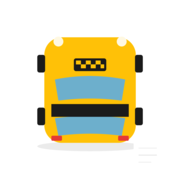
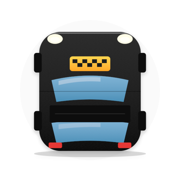
feat: 営業サマリーに時間単価復活+時間別グラフ縦リスト化+天候絵文字+黒タクシーアイコン
- index.html: 営業サマリー表に「時間単価」列追加 (各日 売上/実車時間)、合計行も
- detail.html: 時間別売上グラフを縦リスト式に変更 (各時間=1行、売上barと休憩barを縦並び、tripある時間帯のみ表示) スマホで見やすく
- detail.html: 天候カードを絵文字+温度のシンプル表記に (☀🌤⛅☁🌫🌦🌧🌨⛈)
- weather.js: weatherEmoji() 追加
- アイコン: qlmanage+sipsで再生成、黒車体+黄色TAXIランプ+水色窓で洗練デザイン
- sw.js: cache v24

diff --git a/detail.html b/detail.html
@@ -25,17 +25,18 @@
 .period-table tr.total { background: #f5f5f5; font-weight: 600; }
 .period-table tr.total td { border-top: 2px solid #ddd; }
 
-.hour-chart { margin-top: 8px; overflow-x: auto; }
-.hour-row { display: grid; grid-template-columns: repeat(24, minmax(28px, 1fr)); gap: 2px; }
-.hour-bar-col { display: grid; grid-template-rows: 60px 12px 11px auto; justify-items: center; align-items: end; }
-.hour-bar-col .bar-wrap { height: 60px; display: flex; align-items: end; gap: 1px; width: 100%; }
-.hour-bar-col .bar { flex: 1; border-radius: 2px 2px 0 0; min-height: 1px; }
-.hour-bar-col .bar.sales { background: var(--green, #4CAF50); }
-.hour-bar-col .bar.rest { background: #555; }
-.hour-bar-col .bar.zero { background: #f0f0f0; }
-.hour-bar-col .yen { font-size: 9px; color: #1b5e20; font-weight: 600; line-height: 1; align-self: center; }
-.hour-bar-col .min { font-size: 8px; color: var(--muted); line-height: 1; align-self: center; }
-.hour-bar-col .h { font-size: 9px; color: var(--muted); margin-top: 2px; border-top: 1px solid #ddd; padding-top: 2px; width: 100%; text-align: center; align-self: end; }
+.hour-list { margin-top: 8px; }
+.hour-row { display: grid; grid-template-columns: 38px 1fr 70px; gap: 6px; align-items: center; padding: 4px 0; border-bottom: 1px solid #f0f0f0; font-size: 12px; }
+.hour-row .h { font-weight: 600; color: #444; text-align: right; padding-right: 4px; font-size: 12px; }
+.hour-row .h.zero { color: #ccc; font-weight: 400; }
+.hour-row .barcell { display: grid; grid-template-rows: 1fr 1fr; gap: 2px; }
+.hour-row .bar-bg { height: 11px; background: #f5f5f5; border-radius: 3px; overflow: hidden; }
+.hour-row .bar { height: 100%; border-radius: 3px; min-width: 0; transition: width 0.2s; }
+.hour-row .bar.sales { background: var(--green, #4CAF50); }
+.hour-row .bar.rest { background: #757575; }
+.hour-row .vals { font-size: 10px; line-height: 1.3; text-align: right; color: var(--muted); }
+.hour-row .vals .y { color: #1b5e20; font-weight: 600; font-size: 11px; }
+.hour-row .vals .r { color: #555; }
 
 .trip-table { width: 100%; border-collapse: collapse; font-size: 11px; margin-top: 4px; }
 .trip-table th, .trip-table td { padding: 4px 3px; border-bottom: 1px solid #eee; }
@@ -77,6 +78,7 @@ import { renderBottomNav, formatYen, formatDate } from './js/app.js';
 import { getDrive, listFiles, saveDriveSafe } from './js/storage.js';
 import { calcDailySales } from './js/payroll.js';
 import { calcTimeBreakdown, hourlyActivity, calcPeriodBreakdown, PERIOD_LABELS, formatMin, timeToMinutes } from './js/chart-helpers.js';
+import { weatherEmoji } from './js/weather.js';
 
 const SHIFT_START_HOUR = 7;
 function shiftHour(h) { return h < SHIFT_START_HOUR ? h + 24 : h; }
@@ -153,16 +155,21 @@ async function load() {
   // 時間別: 7時スタート、各バーに金額・実車分
   renderHourChart(drive);
 
-  // 天候
+  // 天候 (絵文字+温度のシンプル表記)
   if (drive.weather) {
     const w = drive.weather;
+    const cell = (lbl, p) => `<div style="text-align:center;flex:1;">
+      <div style="font-size:10px;color:var(--muted);">${lbl}</div>
+      <div style="font-size:24px;line-height:1.2;">${p ? weatherEmoji(p.code) : '—'}</div>
+      <div style="font-size:11px;color:#444;">${p?.tempAvg != null ? p.tempAvg + '℃' : ''}${p?.precipMm > 0 ? ` / ${p.precipMm}mm` : ''}</div>
+    </div>`;
     document.getElementById('weatherCard').innerHTML = `
       <div class="muted">天候</div>
-      <div style="display:flex;gap:8px;font-size:12px;margin-top:4px;flex-wrap:wrap;">
-        <div>朝 ${w.morning?.label || '-'} ${w.morning?.tempAvg ?? ''}℃</div>
-        <div>昼 ${w.noon?.label || '-'} ${w.noon?.tempAvg ?? ''}℃</div>
-        <div>夕夜 ${w.evening?.label || '-'} ${w.evening?.tempAvg ?? ''}℃</div>
-        <div>深夜 ${w.night?.label || '-'} ${w.night?.tempAvg ?? ''}℃</div>
+      <div style="display:flex;gap:4px;margin-top:6px;">
+        ${cell('朝', w.morning)}
+        ${cell('昼', w.noon)}
+        ${cell('夕夜', w.evening)}
+        ${cell('深夜', w.night)}
       </div>
     `;
   } else {
@@ -246,37 +253,33 @@ function renderPeriodTable(drive) {
 
 function renderHourChart(drive) {
   const acts = hourlyActivity(drive, SHIFT_START_HOUR);
-  const maxSales = Math.max(...acts.map(a => a.sales), 1);
-  const REST_FULL = 60; // 60分=100%
-  const cols = acts.map(a => {
-    const salesPct = a.sales === 0 ? 0 : Math.max(4, (a.sales / maxSales) * 100);
-    const restPct = a.restMin === 0 ? 0 : Math.max(4, (a.restMin / REST_FULL) * 100);
-    const salesCls = a.sales === 0 ? 'sales zero' : 'sales';
-    const restCls = a.restMin === 0 ? 'rest zero' : 'rest';
-    const yen = a.sales > 0 ? formatYen(a.sales) : '';
-    const tripMin = a.tripMin > 0 ? `実${a.tripMin}` : '';
-    const restMin = a.restMin > 0 ? `休${a.restMin}` : '';
-    const minLabel = [tripMin, restMin].filter(Boolean).join(' ');
-    return `<div class="hour-bar-col">
-      <div class="bar-wrap">
-        <div class="bar ${salesCls}" style="height:${salesPct}%" title="売上¥${a.sales.toLocaleString()}"></div>
-        <div class="bar ${restCls}" style="height:${restPct}%" title="休憩${a.restMin}分"></div>
+  // 0売上＆0休憩の時間帯は表示しない (帰庫後の0時間帯を省く)
+  const filtered = acts.filter(a => a.sales > 0 || a.tripMin > 0 || a.restMin > 0);
+  const maxSales = Math.max(...filtered.map(a => a.sales), 1);
+  const REST_FULL = 60;
+  const rows = filtered.map(a => {
+    const salesPct = a.sales === 0 ? 0 : Math.max(2, (a.sales / maxSales) * 100);
+    const restPct = a.restMin === 0 ? 0 : Math.max(2, (a.restMin / REST_FULL) * 100);
+    const yenLabel = a.sales > 0 ? formatYen(a.sales) : '—';
+    const restLabel = a.restMin > 0 ? `休${a.restMin}分` : '';
+    const tripLabel = a.tripMin > 0 ? `実${a.tripMin}分` : '';
+    return `<div class="hour-row">
+      <div class="h">${shiftHour(a.hour)}時</div>
+      <div class="barcell">
+        <div class="bar-bg"><div class="bar sales" style="width:${salesPct}%"></div></div>
+        <div class="bar-bg"><div class="bar rest" style="width:${restPct}%"></div></div>
       </div>
-      <div class="yen">${yen}</div>
-      <div class="min">${minLabel}</div>
-      <div class="h">${shiftHour(a.hour)}</div>
+      <div class="vals">
+        <div class="y">${yenLabel}</div>
+        <div class="r">${[tripLabel, restLabel].filter(Boolean).join(' / ') || '—'}</div>
+      </div>
     </div>`;
-  }).join('');
-  const peakAct = acts.reduce((a, b) => a.sales >= b.sales ? a : b);
+  }).join('') || '<p class="muted" style="font-size:11px;">tripなし</p>';
+  const peakAct = filtered.length > 0 ? filtered.reduce((a, b) => a.sales >= b.sales ? a : b) : null;
   document.getElementById('hourCard').innerHTML = `
-    <div class="muted">時間別 売上(緑) + 休憩(灰) ・7時スタート、深夜は25時〜</div>
-    <div class="hour-chart">
-      <div class="hour-row">${cols}</div>
-    </div>
-    <div class="legend">
-      売上=その時間の合計、休憩=その時間内の休憩分(60分で満タン)。<br>
-      ピーク売上: <strong>${shiftHour(peakAct.hour)}時台 ${formatYen(peakAct.sales)} (実車${peakAct.tripMin}分)</strong>
-    </div>
+    <div class="muted">時間別 売上(緑) と 休憩(グレー) ・7時スタート、深夜は25時〜</div>
+    <div class="hour-list">${rows}</div>
+    ${peakAct ? `<div class="legend">ピーク売上: <strong>${shiftHour(peakAct.hour)}時台 ${formatYen(peakAct.sales)} (実車${peakAct.tripMin}分)</strong></div>` : ''}
   `;
 }
 

diff --git a/index.html b/index.html
@@ -223,6 +223,7 @@ function renderSummaryTable(drives) {
     const memoCell = memoText
       ? `<td class="l" style="max-width:160px;color:#555;font-size:10px;line-height:1.3;white-space:normal;">${memoText.replace(/</g,'&lt;').replace(/\n/g,' / ')}</td>`
       : `<td>—</td>`;
+    const hourly = bd.tripMin > 0 ? sales.inclTax / (bd.tripMin / 60) : 0;
     return `<tr onclick="location.href='detail.html?date=${d.date}'" style="cursor:pointer;${summary ? 'background:#fafafa;' : ''}">
       <td class="date">${formatDate(d.date)}${summary ? '<span class="badge" style="font-size:9px;padding:0 4px;background:#ddd;color:#666;margin-left:3px;">概</span>' : ''}</td>
       <td>${summary ? dash : count}</td>
@@ -232,6 +233,7 @@ function renderSummaryTable(drives) {
       <td>${summary ? dash : km.toFixed(1)}</td>
       <td>${summary ? dash : formatMin(bd.totalMin)}</td>
       <td>${summary ? dash : formatMin(bd.tripMin)}</td>
+      <td>${summary ? dash : formatYen(hourly)}</td>
       ${memoCell}
     </tr>`;
   }).join('');
@@ -242,7 +244,7 @@ function renderSummaryTable(drives) {
         <thead><tr>
           <th class="date">日付</th><th>件数</th><th>税込</th><th>税抜</th>
           ${PKEYS.map(k => `<th>${PERIOD_LABELS[k]}</th>`).join('')}
-          <th>km</th><th>乗務</th><th>実車</th><th class="l">メモ</th>
+          <th>km</th><th>乗務</th><th>実車</th><th>時間単価</th><th class="l">メモ</th>
         </tr></thead>
         <tbody>
           ${rows}
@@ -255,6 +257,7 @@ function renderSummaryTable(drives) {
             <td>${detKm.toFixed(1)}</td>
             <td>${formatMin(detTotalMin)}</td>
             <td>${formatMin(detTripMin)}</td>
+            <td>${detTripMin > 0 ? formatYen(detIncl / (detTripMin / 60)) : '—'}</td>
             <td>—</td>
           </tr>
         </tbody>

diff --git a/js/weather.js b/js/weather.js
@@ -16,6 +16,21 @@ export function weatherLabel(code) {
   return WMO_LABELS[code] || '不明';
 }
 
+export function weatherEmoji(code) {
+  if (code == null) return '';
+  if (code === 0) return '☀';
+  if (code === 1) return '🌤';
+  if (code === 2) return '⛅';
+  if (code === 3) return '☁';
+  if (code === 45 || code === 48) return '🌫';
+  if (code >= 51 && code <= 55) return '🌦';
+  if (code >= 61 && code <= 67) return '🌧';
+  if (code >= 71 && code <= 77) return '🌨';
+  if (code >= 80 && code <= 82) return '🌧';
+  if (code >= 95) return '⛈';
+  return '';
+}
+
 // 1日分の天候を時間別で取得 → 4区分に集計
 export async function fetchWeatherForDate(date, location) {
   const today = new Date().toISOString().slice(0, 10);

diff --git a/sw.js b/sw.js
@@ -1,4 +1,4 @@
-const CACHE_NAME = 'taxi-daily-v23';
+const CACHE_NAME = 'taxi-daily-v24';
 const STATIC_FILES = [
   './',
   './index.html',
